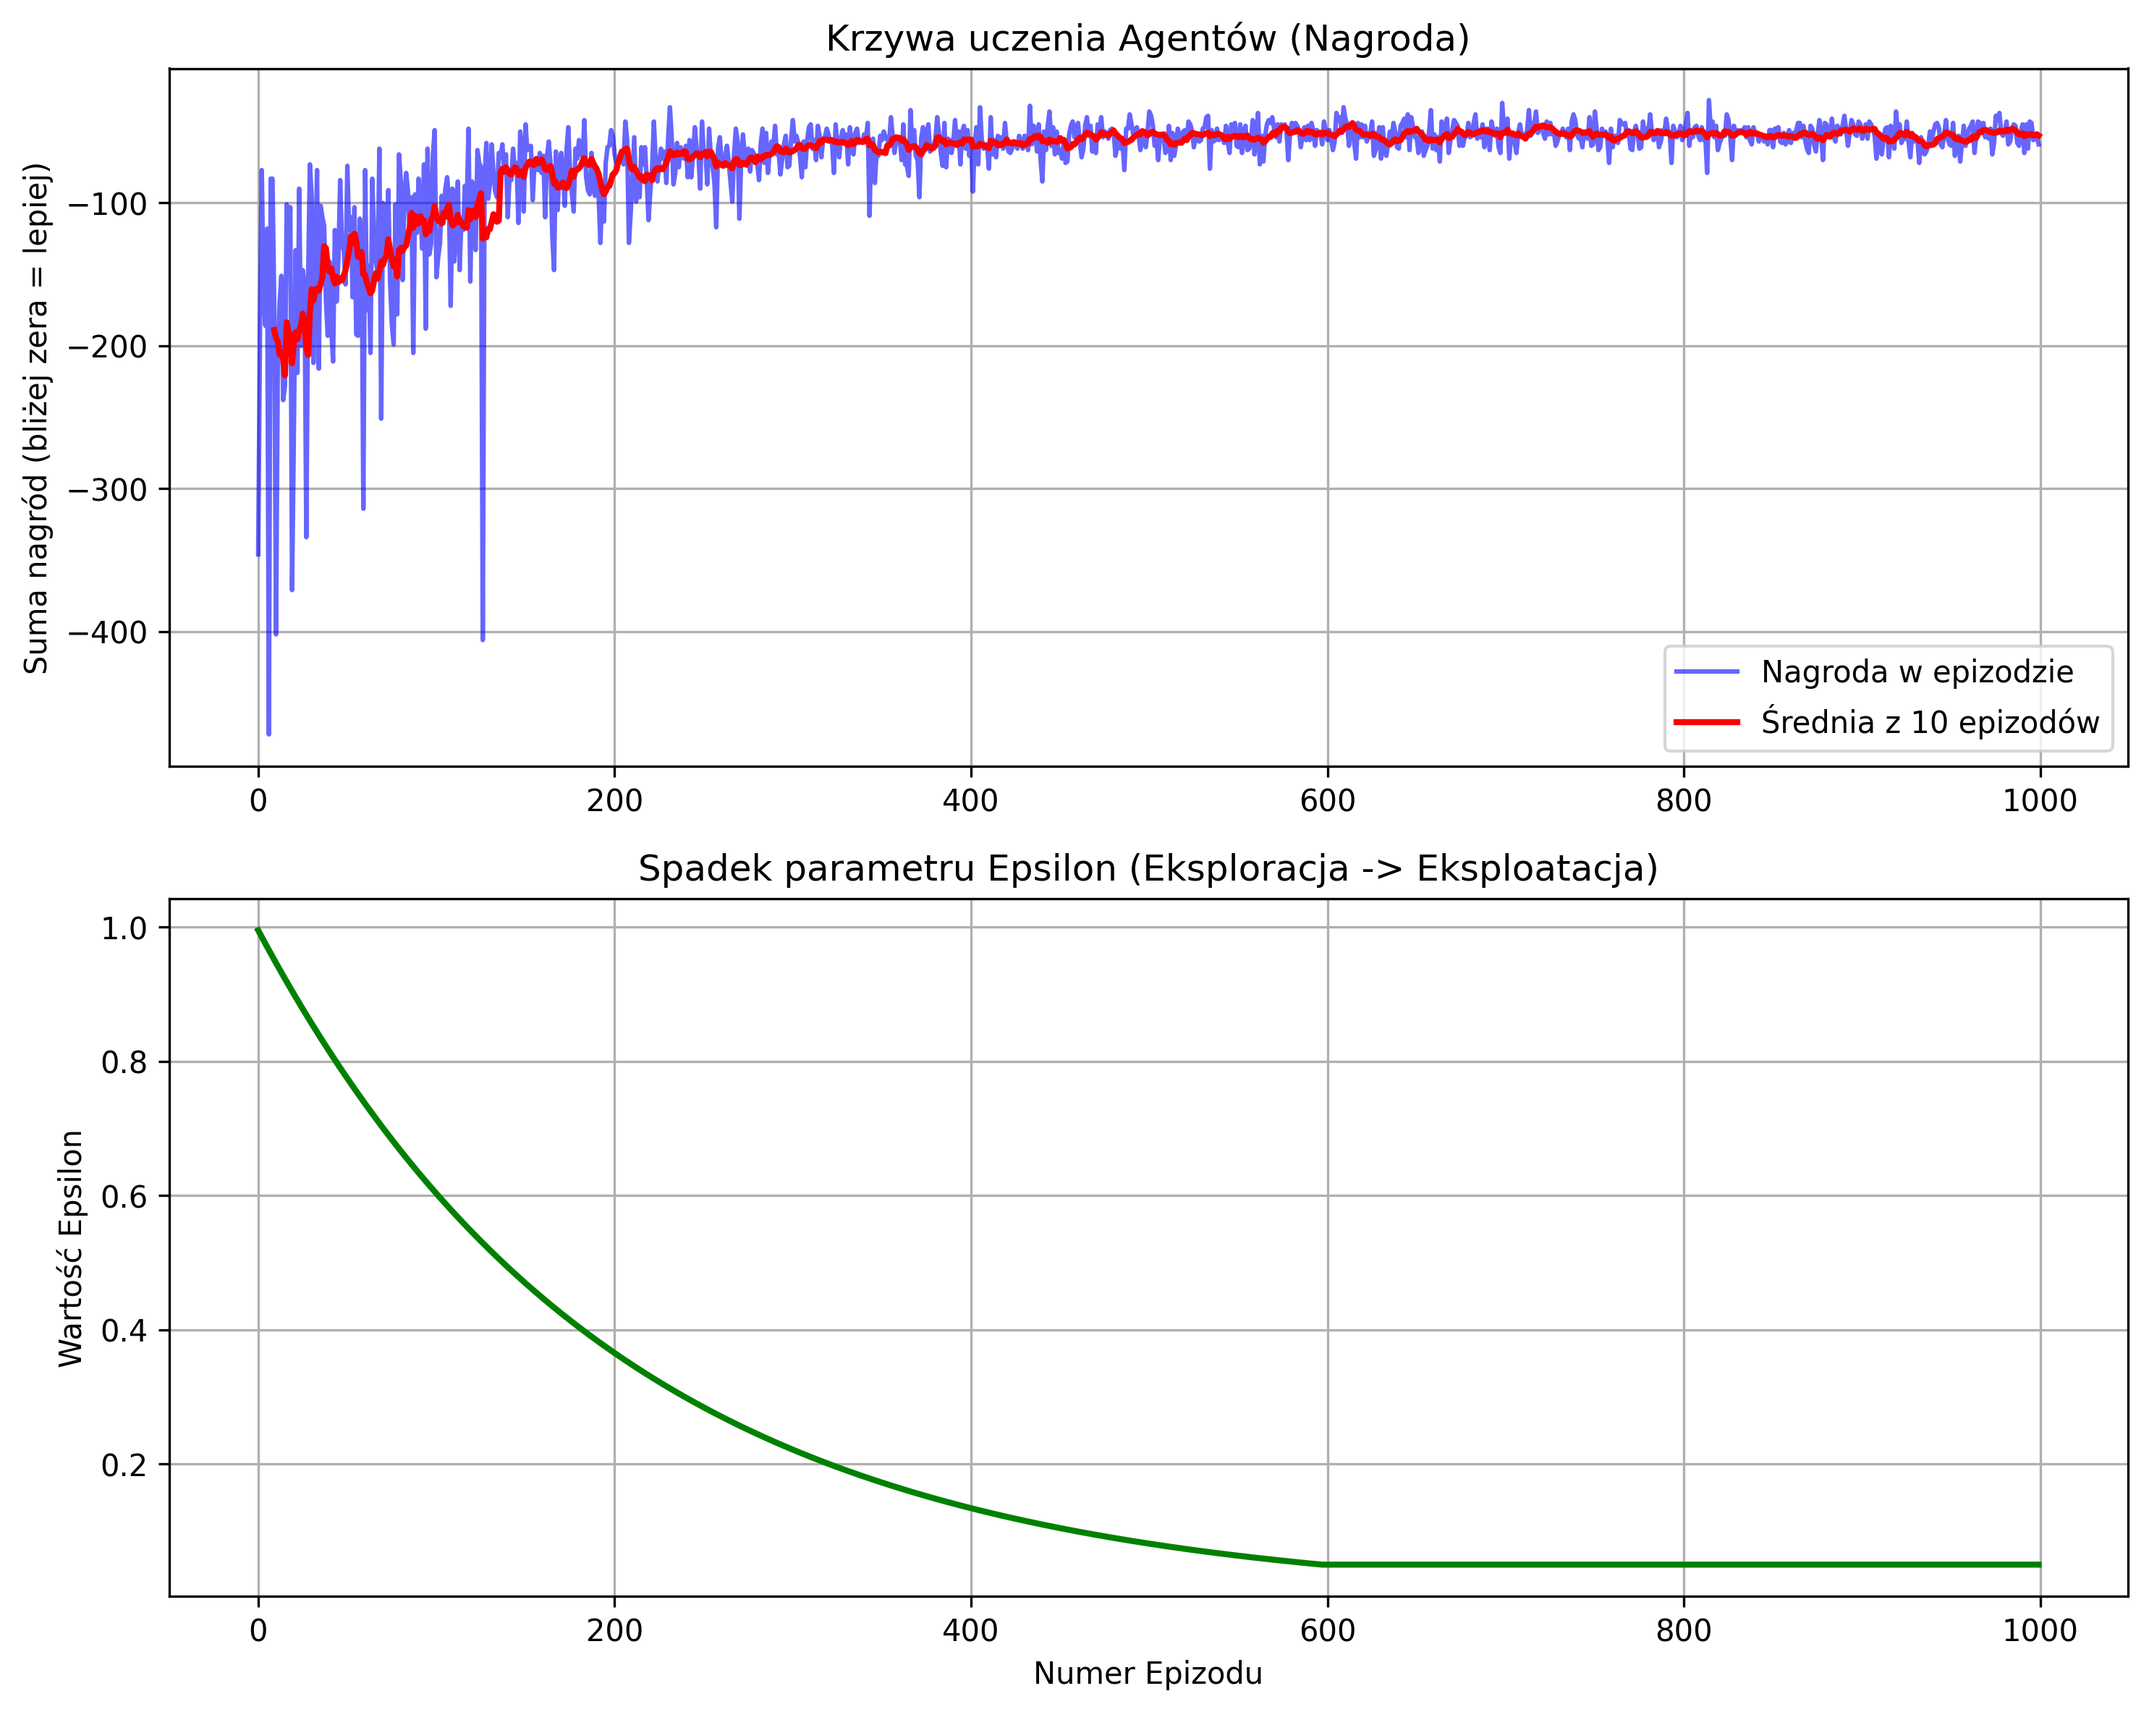
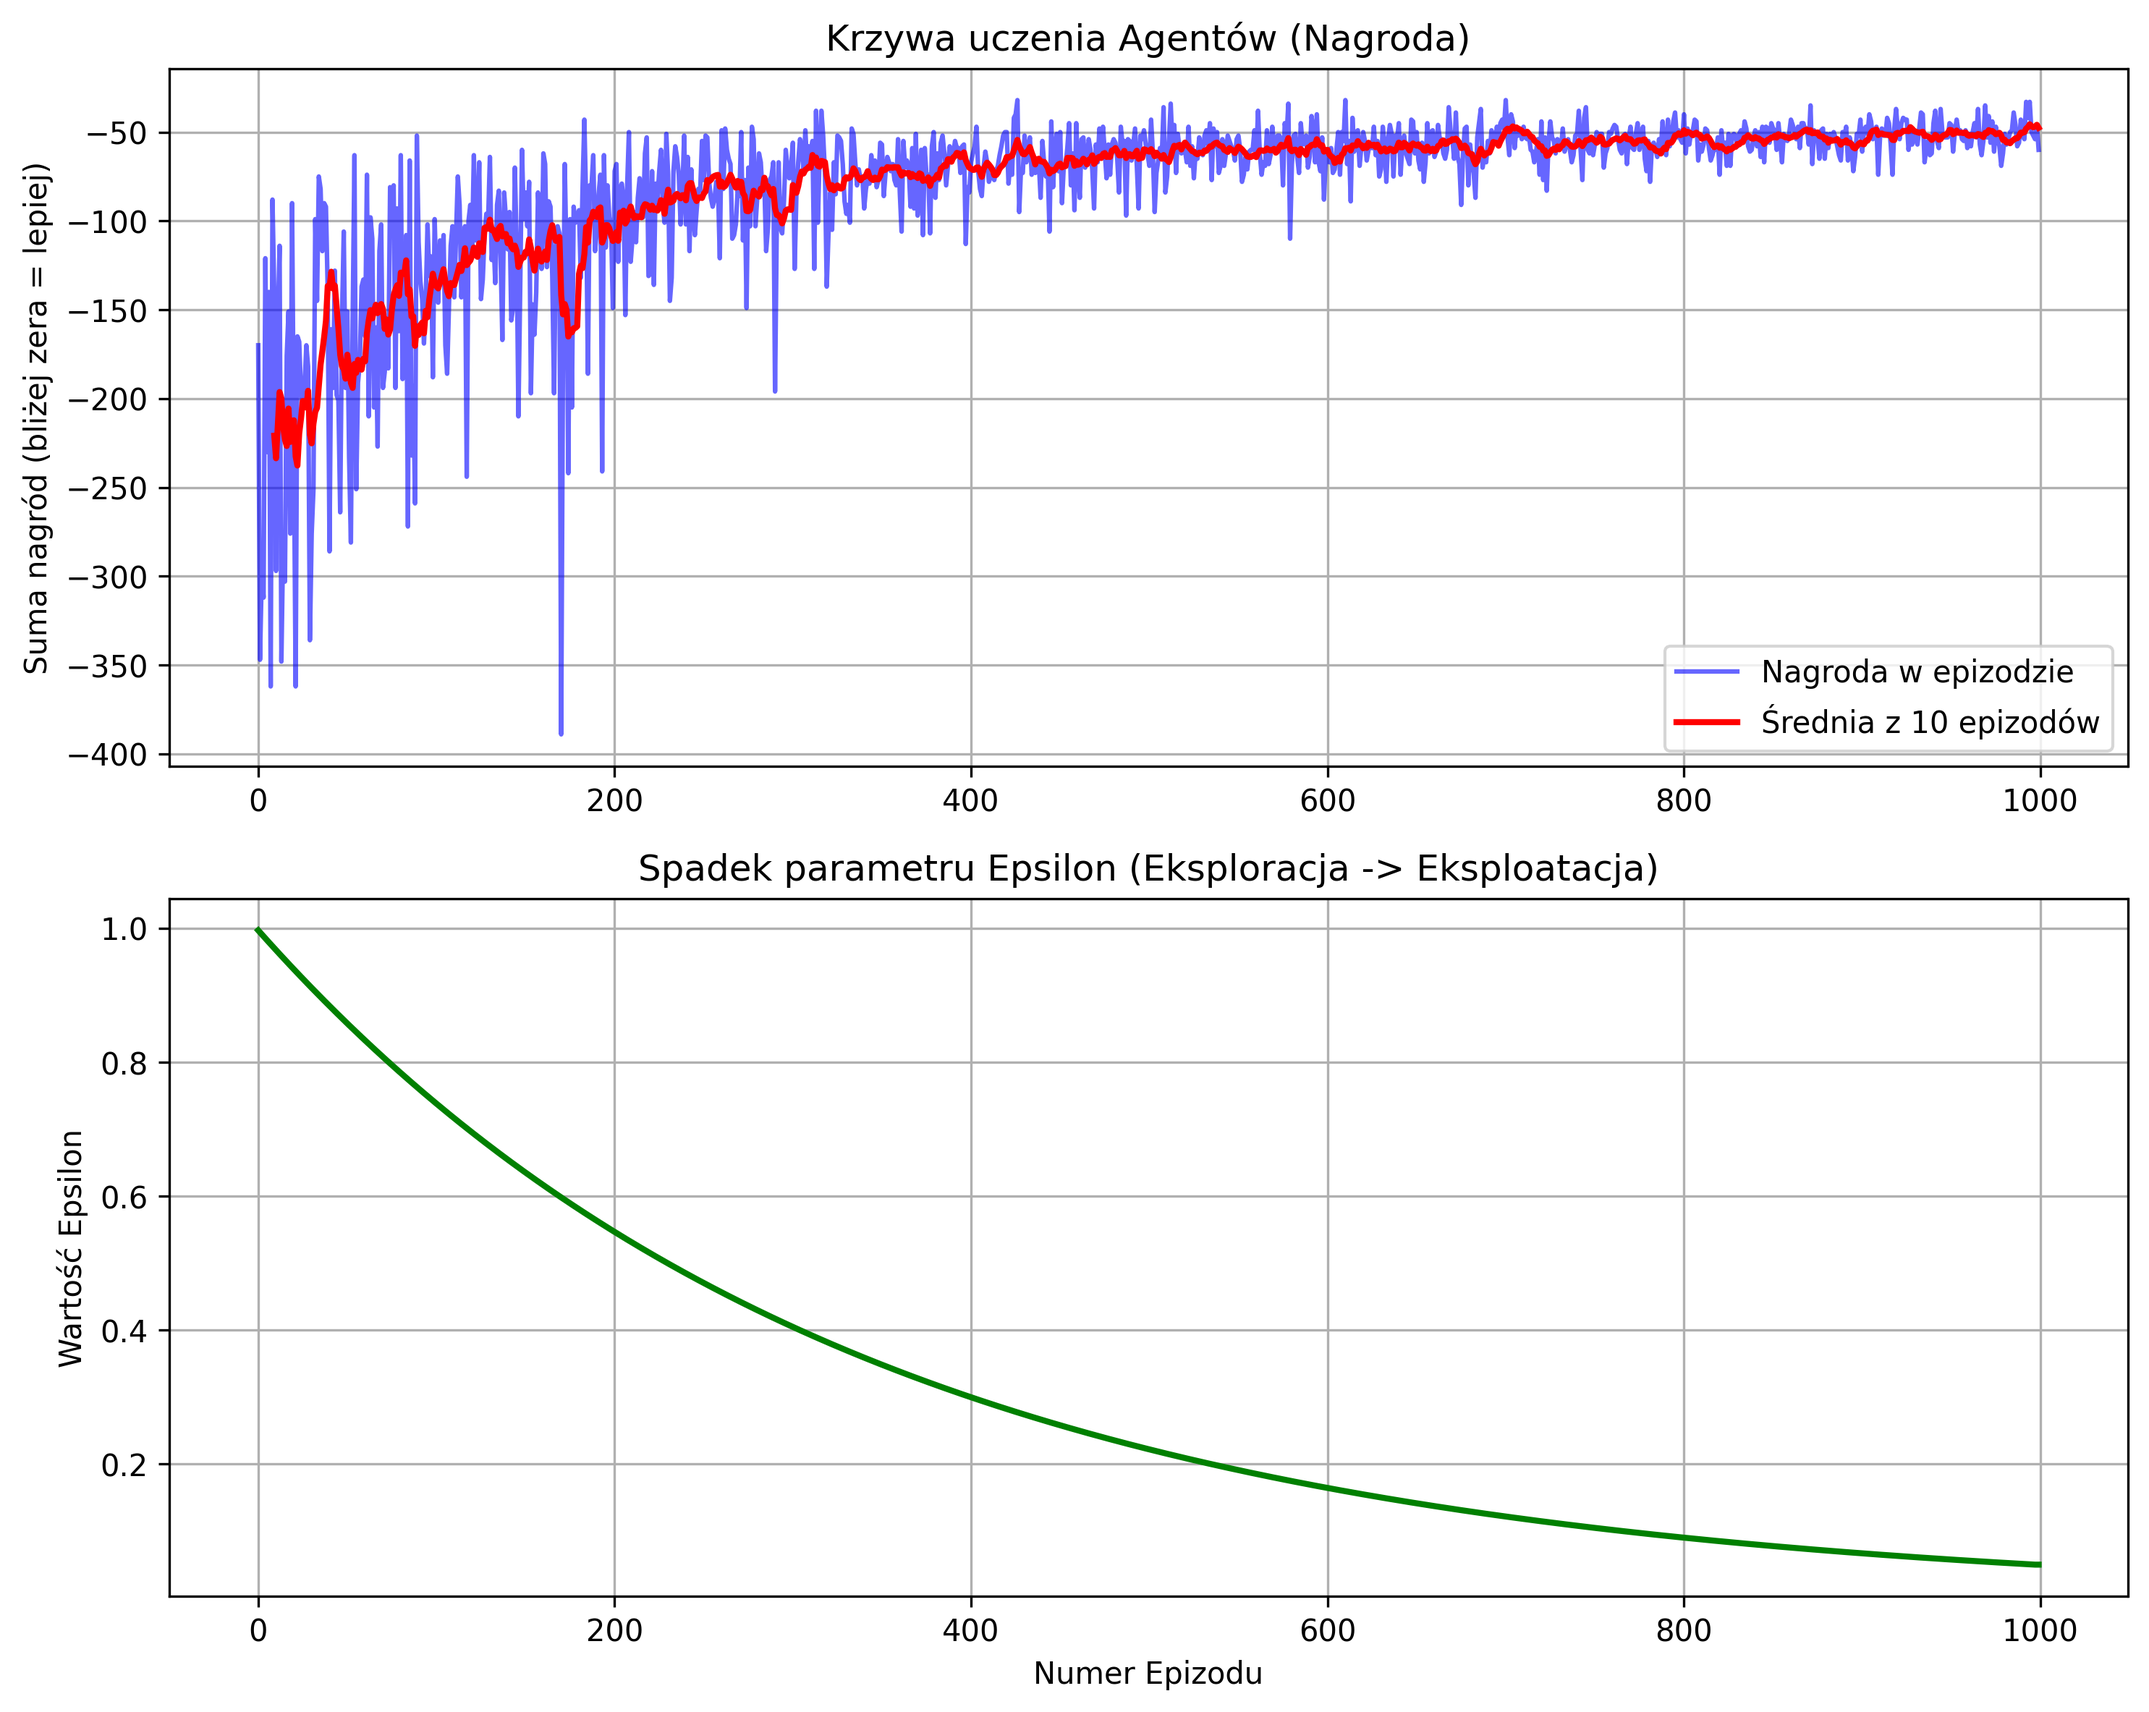
rearranging stuff

diff --git a/ml_testing/agent.py b/ml_testing/agent.py
@@ -34,7 +34,7 @@ class DQNAgent:
         self.gamma = 0.95    # Współczynnik dyskontowania (jak bardzo zależy mu na przyszłości)
         self.epsilon = 1.0   # Eksploracja (na początku 100% losowych akcji)
         self.epsilon_min = 0.05
-        self.epsilon_decay = 0.995
+        self.epsilon_decay = 0.997
 
     def act(self, state):
         # Strategia Epsilon-Greedy: czasem eksplorujemy (losowo), czasem eksploatujemy (sieć)
